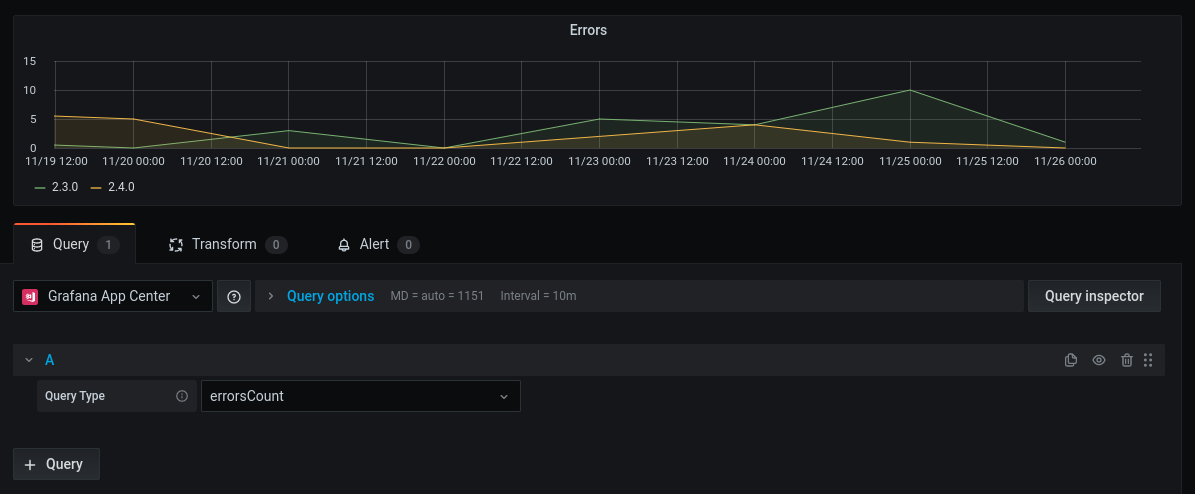
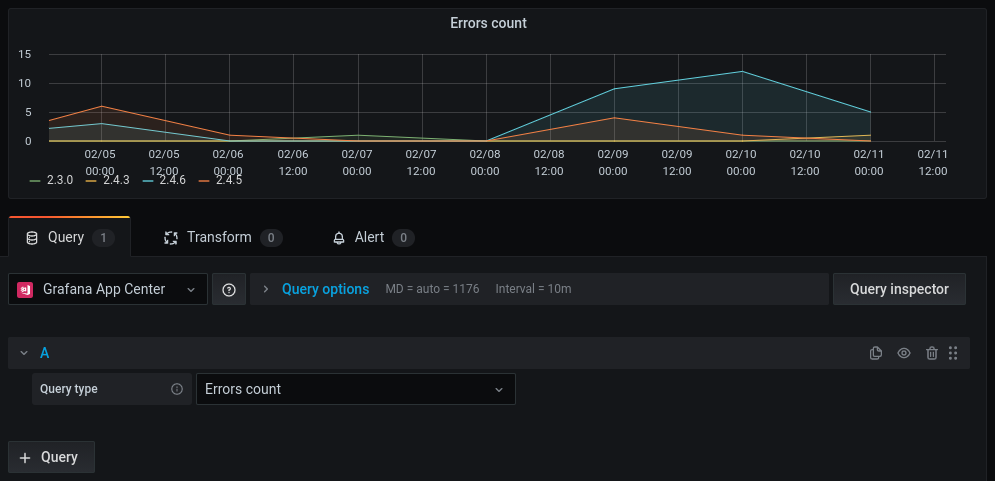
Fixes for v1.0.0

diff --git a/src/ConfigEditor.tsx b/src/ConfigEditor.tsx
@@ -92,7 +92,7 @@ export class ConfigEditor extends PureComponent<Props, State> {
             <SecretFormField
               isConfigured={(secureJsonFields && secureJsonFields.apiKey) as boolean}
               value={secureJsonData.apiKey || ''}
-              label="User API Key"
+              label="User API key"
               tooltip="App Center user API Token. Can me generated through https://appcenter.ms/settings"
               placeholder="App Center User API Token"
               labelWidth={10}
@@ -105,11 +105,11 @@ export class ConfigEditor extends PureComponent<Props, State> {
 
         <div className="gf-form">
           <FormField
-            label="Organization Name"
+            label="Organization name"
             onChange={this.onOrgNameChange}
             value={jsonData.orgName || ''}
             tooltip="You can check the available options using the query 'listOrgs'. Spaces will be replaced by dashes"
-            placeholder="Organization Name"
+            placeholder="Organization name"
             labelWidth={10}
             inputWidth={20}
           />
@@ -117,7 +117,7 @@ export class ConfigEditor extends PureComponent<Props, State> {
 
         <div className="gf-form">
           <FormField
-            label="App Name"
+            label="App name"
             onChange={this.onAppNameChange}
             value={jsonData.appName || ''}
             tooltip="Allows multiple apps separated by semicolon. You can check the available options using the query 'listApps'. Spaces will be replaced by dashes"

diff --git a/src/DataSource.ts b/src/DataSource.ts
@@ -23,7 +23,6 @@ export class DataSource extends DataSourceApi<MyQuery, MyDataSourceOptions> {
   constructor(instanceSettings: DataSourceInstanceSettings<MyDataSourceOptions>) {
     super(instanceSettings);
 
-    console.log(instanceSettings);
     this.orgName = instanceSettings.jsonData.orgName;
     this.appName = instanceSettings.jsonData.appName;
     this.apiKey = instanceSettings.jsonData.key;
@@ -41,19 +40,19 @@ export class DataSource extends DataSourceApi<MyQuery, MyDataSourceOptions> {
       this.timezone = options.timezone;
 
       switch (query.type.value) {
-        case 'apps':
+        case 'Apps':
           return this.listApps(query);
-        case 'errorGroups':
+        case 'Error groups':
           return this.listErrorGroups(query);
-        case 'errors':
+        case 'Errors':
           return this.listErrors(query);
-        case 'errorsCount':
+        case 'Errors count':
           return this.listErrorsCount(query);
-        case 'orgs':
+        case 'Orgs':
           return this.listOrgs(query);
       }
 
-      return null;
+      throw new Error("A 'Query type' must be selected.");
     });
 
     return Promise.all(promises).then(data => ({ data }));

diff --git a/src/QueryEditor.tsx b/src/QueryEditor.tsx
@@ -40,7 +40,7 @@ export class QueryEditor extends PureComponent<Props> {
         <div className="gf-form-inline">
           <div className="gf-form">
             <InlineFormLabel width={10} tooltip="Type of query you want to execute">
-              Query Type
+              Query type
             </InlineFormLabel>
             <Select
               data-testid="Query type"
@@ -53,7 +53,7 @@ export class QueryEditor extends PureComponent<Props> {
           </div>
         </div>
 
-        {['errorGroups', 'errors'].includes(type.value) && (
+        {['Error groups', 'Errors'].includes(type.value) && (
           <div className="gf-form-inline">
             <div className="gf-form">
               <FormField

diff --git a/src/types.ts b/src/types.ts
@@ -1,6 +1,6 @@
 import { DataQuery, DataSourceJsonData, SelectableValue } from '@grafana/data';
 
-export const TYPES = ['apps', 'errorGroups', 'errors', 'errorsCount', 'orgs'];
+export const TYPES = ['Apps', 'Error groups', 'Errors', 'Errors count', 'Orgs'];
 
 export interface MyQuery extends DataQuery {
   type: SelectableValue;

diff --git a/README.md b/README.md
@@ -21,7 +21,7 @@ Grafana 7.2 and later.
 
 ### What does the Data Source require to connect to the App Center?
 
-The Data Source requires a App Center User API Token in order to connect to App Center API. This token can be generated on App Center Setting page (https://appcenter.ms/settings).
+The Data Source requires a App Center User API Token (with Full Access) in order to connect to App Center API. This token can be generated on App Center Setting page (https://appcenter.ms/settings).
 
 ## Getting Started
 
@@ -39,21 +39,27 @@ grafana-cli plugins install thalysantana-appcenter-datasource
 docker run -d -p 3000:3000 --name=grafana -e "GF_INSTALL_PLUGINS=thalysantana-appcenter-datasource" grafana/grafana
 ```
 
+### Settings
+
+Configure the required properties:
+
+![Query](https://github.com/thalysantana/grafana-appcenter-datasource/blob/main/src/img/screenshot-settings.png?raw=true)
+
 ## Supported Operations
 
-#### orgs - List available organizations. (table)
+#### Orgs - List available organizations. (table)
 
 ![Query](https://github.com/thalysantana/grafana-appcenter-datasource/blob/main/src/img/screenshot-orgs.png?raw=true)
 
-#### apps - List availabe apps for the configured organization. (table)
+#### Apps - List availabe apps for the configured organization. (table)
 
 ![Query](https://github.com/thalysantana/grafana-appcenter-datasource/blob/main/src/img/screenshot-apps.png?raw=true)
 
-### errorGroups - List error groups for the configured apps over a range period. (table)
+### Error groups - List error groups for the configured apps over a range period. (table)
 
 ![Query](https://github.com/thalysantana/grafana-appcenter-datasource/blob/main/src/img/screenshot-error-groups.png?raw=true)
 
-### errors  - List errors for the configured apps over a range period. (table)
+### Errors  - List errors for the configured apps over a range period. (table)
 
 ![Query](https://github.com/thalysantana/grafana-appcenter-datasource/blob/main/src/img/screenshot-errors.png?raw=true)
 
@@ -71,7 +77,7 @@ Link creation
 
 ![Query](https://github.com/thalysantana/grafana-appcenter-datasource/blob/main/src/img/screenshot-errors-link-creation-2.png?raw=true)
 
-### errorsCount - List errors count for the configured apps grouped by version. (graph)
+### Errors count - List errors count for the configured apps grouped by version. (graph)
 
 ![Query](https://github.com/thalysantana/grafana-appcenter-datasource/blob/main/src/img/screenshot-errors-count.png?raw=true)
 
